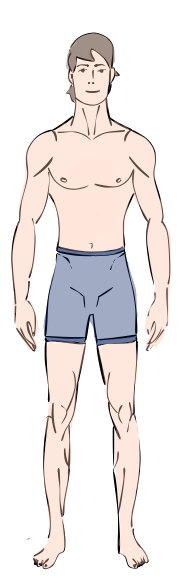
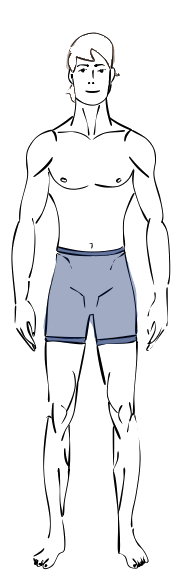
manichini uomo colorati

diff --git a/camerino.html b/camerino.html
@@ -16,6 +16,7 @@
       <img src="dressingroom/woman.png" alt="Donna" id="btn-donna" class="genere-img">
     </div>
   </div>
+  
 
   <div class="container-camerino">
     <div class="area-uomo">
@@ -71,6 +72,12 @@
       </div>
 
       <div id="manichino-uomo" class="manichino" ondragover="allowDrop(event)" ondrop="drop(event)">
+        <div  class="color-button" style="margin-top: -50px;">
+          <button class="color-btn rosa" onclick="cambiaColoreManichino('uomo', 'rosa')"></button>
+          <button class="color-btn marrone" onclick="cambiaColoreManichino('uomo', 'marrone')"></button>
+          <button class="color-btn nero" onclick="cambiaColoreManichino('uomo', 'nero')"></button>
+        </div>
+        <img id="manichinoUomo" src="manichinoUomo.png" alt="Manichino Uomo" style="display: none;">
         <div id="zona-testa" class="zona"></div>
         <div id="zona-busto" class="zona"></div>
         <div id="zona-over-busto" class="zona"></div>
@@ -78,6 +85,7 @@
         <div id="zona-piedi" class="zona"></div>
         <div id="zona-orologio" class="zona"></div>
       </div>
+      
 
       <div class="carousel-container-dx" id="carousel3" data-visible="7">
         <button class="arrow left" onclick="scrollCarousel('carousel3', -1)">&#9664;</button>
@@ -159,6 +167,11 @@
         <div id="zona-vestito" class="zona"></div>
         <div id="zona-borsa" class="zona"></div>
         <div id="zona-sciarpa" class="zona"></div> -->
+        <div  class="color-button" style="margin-top: -50px;">
+          <button class="color-btn rosa" onclick="changeMannequinColor('rosa')"></button>
+          <button class="color-btn marrone" onclick="changeMannequinColor('marrone')"></button>
+          <button class="color-btn nero" onclick="changeMannequinColor('nero')"></button>
+        </div>
       </div>
 
       <div class="carousel-container-dx" id="carousel6"  data-visible="10">
@@ -276,7 +289,21 @@
     document.getElementById("manichino-uomo").style.backgroundImage = "url('manichinoUomo.png')";
     varGlobDonna = false;
     spostaTuttoASinistra();
+  
   });
+
+  function changeMannequinColor(color) {
+  const manichinoUomo = document.getElementById('manichinoUomo');
+  const manichinoDonna = document.getElementById('manichinoDonna');
+
+  if (manichinoUomo && manichinoUomo.style.display !== 'none') {
+    manichinoUomo.src = `manichinoUomo${(color)}.png`;
+  } else if (manichinoDonna && manichinoDonna.style.display !== 'none') {
+    manichinoDonna.src = `manichinoDonna${(color)}.png`;
+  }
+}
+
+
 
   function allowDrop(ev) {
     ev.preventDefault();
@@ -710,6 +737,28 @@
     console.log(`Carosello ${carouselId}: visibili ${visibleItems}, indice ${carouselIndices[carouselId]}`);
   }
 
+  function cambiaColoreManichino(genere, colore) {
+    const manichino = document.getElementById(`manichino-${genere}`);
+
+
+    if(genere === 'uomo'){
+      if (colore === 'rosa'){
+        manichino.style.backgroundImage = "url('manichinoUomoRosa.png')";
+      } else if (colore === 'marrone'){
+        manichino.style.backgroundImage = "url('manichinoUomoMarrone.png')";
+      } else if (colore === 'nero'){
+        manichino.style.backgroundImage = "url('manichinoUomoNero.png')";
+    }
+  } else if(genere === 'donna'){
+      if (colore === 'rosa'){
+        manichino.style.backgroundImage = "url('manichinoDonnaRosa.png')";
+      } else if (colore === 'marrone'){
+        manichino.style.backgroundImage = "url('manichinoDonnaMarrone.png')";
+      } else if (colore === 'nero'){
+        manichino.style.backgroundImage = "url('manichinoDonnaNero.png')";
+    }
+  }
+}
 
 </script>
 </body>

diff --git a/camerino.css b/camerino.css
@@ -302,3 +302,26 @@ body {
 .right {
   right: -30px;
 }
+
+.color-btn {
+  width: 40px;
+  height: 40px;
+  border-radius: 50%;
+  border: 2px solid #555;
+  margin: 5px;
+  cursor: pointer;
+  display: inline-block;
+}
+
+.color-btn:hover {
+  transform: scale(1.1);
+}
+
+.rosa   { background-color: #fabda2; }
+.marrone  { background-color: #bf886f; }
+.nero { background-color: #bf886f; }
+
+.color-btn.attivo {
+  border: 3px solid white;
+  box-shadow: 0 0 8px rgba(0,0,0,0.3);
+}
